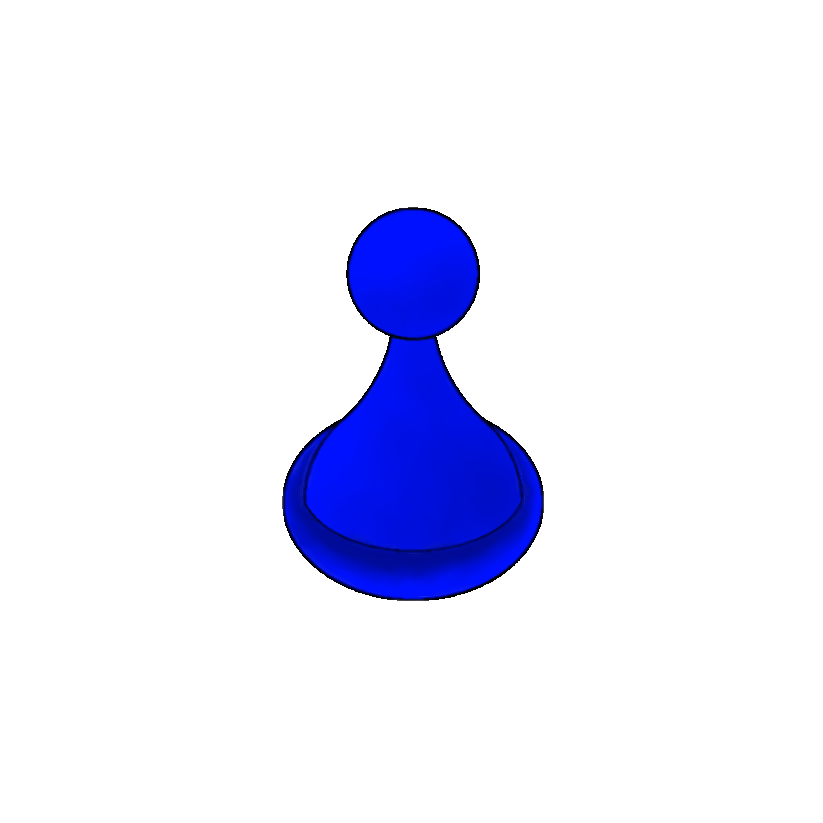
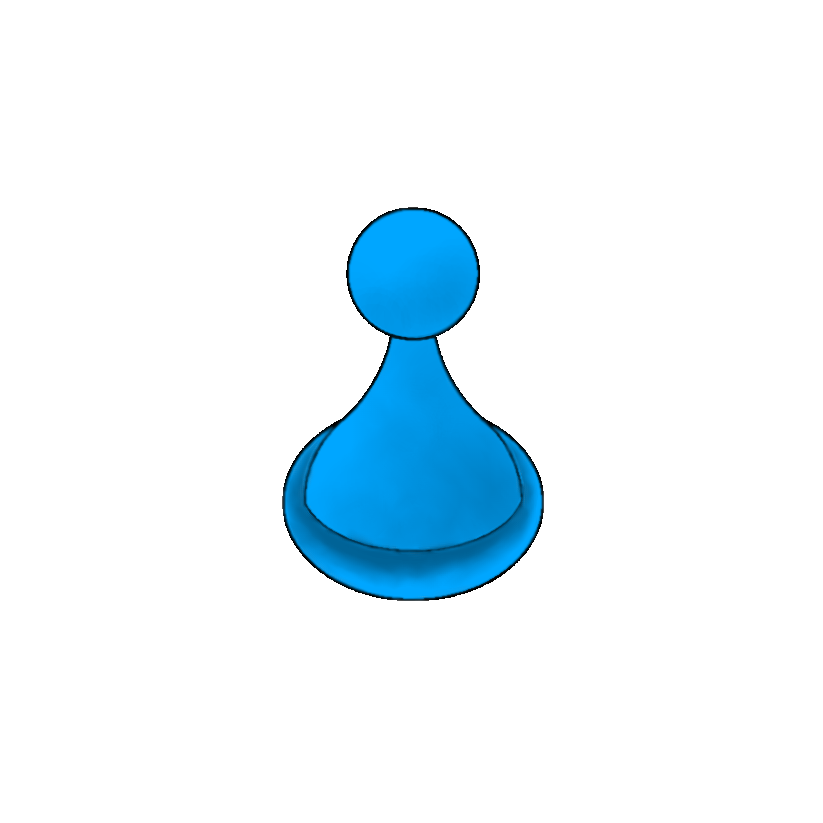
Interface 4.0

Changed region(s): [[0.3341, 0.243, 0.6683, 0.729]]

diff --git a/Interface.py b/Interface.py
@@ -105,10 +105,13 @@ def affichage():
                 imageRedim = redimensionne(listeTerrains[j], (largeurFenetre, hauteurFenetre))
                 hauteur = imageRedim.get_rect()[3]
                 largeur = imageRedim.get_rect()[2]
-                fenetre.blit(imageRedim, ((largeurFenetre-largeur)/2, (hauteurFenetre-hauteur)/2))
+                xPlateau, yPlateau = (largeurFenetre-largeur)/2, (hauteurFenetre-hauteur)/2
+                fenetre.blit(imageRedim, (xPlateau, yPlateau))
                 affichage_pièces (plateau, imageRedim, fenetre)
                 if event.type == KEYDOWN:
                     j=(j+1)%3
+                if event.type == MOUSEBUTTONDOWN and event.button == 1:
+                    detecteCaseCurseur(event, largeur, hauteur, xPlateau, yPlateau)
                 pygame.display.flip()
 
 
@@ -121,7 +124,7 @@ def affichage_pièces (plateau, imagePlateau, fenetre):
     largeur = imagePlateau.get_rect()[2]
     hauteurFenetre, largeurFenetre = fenetre.get_rect()[3], fenetre.get_rect()[2]
     centre = complex(largeurFenetre/2, hauteurFenetre/2)
-    Image = redimensionne(pygame.image.load("Image/Pieces/bleu_Pion.png").convert_alpha(), (largeur/8, hauteur/8))
+    Image = redimensionne(pygame.image.load("Image/Pieces/bleu_Pion00.png").convert_alpha(), (largeur/8, hauteur/8))
     u = complex(largeur/12, -hauteur/24) # selon l'axe d
     v = complex(-largeur/12, -hauteur/24)# attention l'axe est vers le bas
 
@@ -135,12 +138,15 @@ def affichage_pièces (plateau, imagePlateau, fenetre):
                     z = décaleImage + centre + np.exp(2j*p*np.pi/3)*(centreCase + d*u + g*v - centre)
                     fenetre.blit(Image, (z.real, z.imag))
 
-def detecteCaseCurseur(imagePlateau):
-    if event.type == MOUSEBUTTONDOWN and event.button == 1:
+def detecteCaseCurseur(event, largeurPlateau, hauteurPlateau, xPlateau, yPlateau):
         xCurseur = event.pos[0]
         yCurseur = event.pos[1]
-        def
-        if
+        def frontiere01(x):
+            return 3*hauteurPlateau/4 - x * (x*np.tan(np.pi/6))
+        def frontiere02(x):
+            return hauteurPlateau/4 + x * (x*tan(np.pi/6))
+        if yCurseur < frontiere01(xCurseur) and xCurseur < (largeurPlateau+xPlateau)/2 :
+            print ("terrain 1")
 
 
 

diff --git a/Pieces.py b/Pieces.py
@@ -423,7 +423,6 @@ def test_infini(p, d, g, x, y, n=6, nCasesMax=11):
         k += 1
     return depsInfini
 
-<<<<<<< HEAD
 ##if __name__ == '__main__':
 ##    import Pieces
 ##    from plateau import Plateau
@@ -437,13 +436,13 @@ def test_infini(p, d, g, x, y, n=6, nCasesMax=11):
 ##    plateau = Plateau(listJoueur)
 ##    print(isinstance(plateau[0][0][0], Pieces.Piece))
 ##    print(dep_effectifs(depssE, depacE, Tour, plateau))
-=======
+
 if __name__ == '__main__':
     import Pieces
     from plateau import Plateau
     from joueur import Joueur, ListesDeJoueur
     from Interface import ROUGE, VERT, BLEU, BLANC
->>>>>>> master
+
 
     depssE, depacE = traduction_en_couples_déplacements(*Tour.deplacements_possibles(None), (0, 0, 5), 6)
     listJoueur = ListesDeJoueur(Joueur("Arthur", 0, BLEU), Joueur("Sarah", 1, VERT), Joueur("Florian", 2, ROUGE))

diff --git a/joueur.py b/joueur.py
@@ -31,9 +31,8 @@ class Joueur:
                                 self.pion4, self.pion5, self.pion6, self.pion7, self.chat]
 
 
-<<<<<<< HEAD
-class ListeDeJoueurs:
-=======
+
+
 class IA(Joueur):
     """C'est l'IA, donc n'est pas controlée par les joueurs"""
     nomIA = ["Truc 1", "Truc 2", "Truc 3"]
@@ -43,8 +42,8 @@ class IA(Joueur):
         IA.numIA +=1
         self.difficulté = difficulté
 
-class ListesDeJoueur:
->>>>>>> master
+class ListeDeJoueurs:
+
     def __init__(self, *joueurs):
         self.joueurs = list(joueurs)
         self.iJoueurActuel = 0
